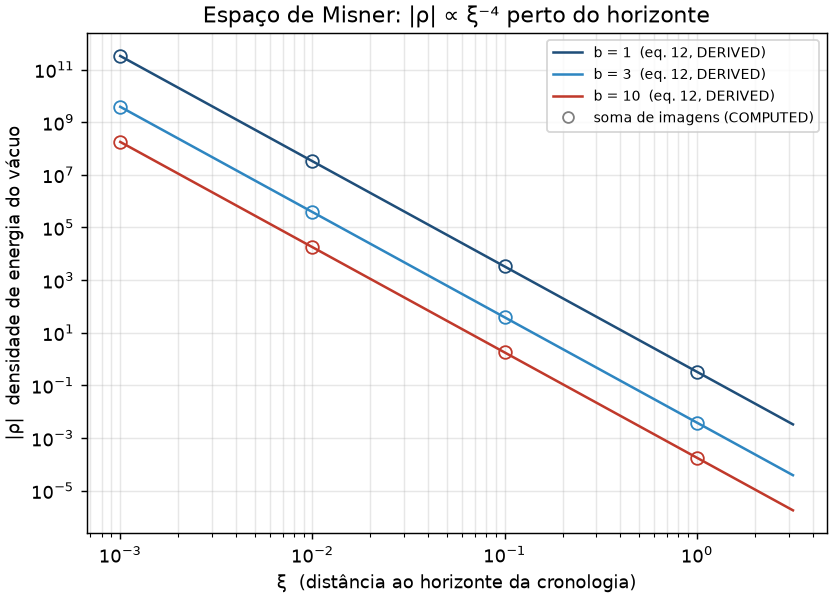
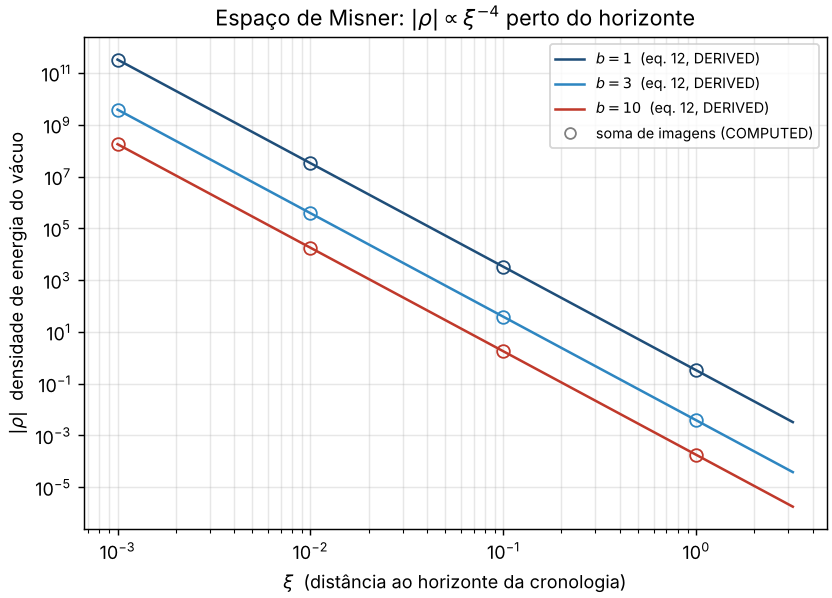
Paper v0.2.2: measured running times, left-aligned tables, mathtext figures, DOI footer
- Section 10: running times measured by paper/measure_timings.py (pytest,
  default run, build_tables.py, make -C paper), with CPU, RAM, OS, kernel and
  Python read from the system; raw data in generated/timings.json.
- Tables 1 and 2: left-aligned paragraph columns (array package); no more
  stretched text.
- Figures 1-4 (pt and _en): labels and titles in matplotlib mathtext. Plotted
  values unchanged: compared against origin/main, identical for all four;
  test_figures_lang.py passes.
- Page 1 footer: the double period after the DOI comes from the template's
  header.tex (line 69: the DOI branch ends in "." and the empty SWH branch adds
  another). Fixed in article.tex with a local \doi that swallows the first
  period; the template files are untouched.
- Table 3 caption: Hawking (1992) cited with \cite{hawking1992}
  (build_tables.py, CITE_KEYS).
- Table 1: float limits relaxed in article.tex; it now shares page 6 with text
  and the PDF has 12 pages instead of 13.
- build_tables.py: RELEASE_TAG = v0.2.2 (v0.2.1 is tagged on an earlier
  commit, and the generator refuses to run off the tag's commit).
- Makefile: generated/*.tex as dependencies, latexmk -g.
- The quotation of Klinkhammer's thesis stays marked as pending.

run: padrão (via paper/measure_timings.py: pytest 9 min 18 s, chronosim.run 7 min 26 s)

Claude-Session: https://claude.ai/code/session_01JtSYAWnLxFKdcSaz66cprf

diff --git a/chronosim/run.py b/chronosim/run.py
@@ -471,18 +471,18 @@ def figures_phase2(out: Path):
     dt = np.logspace(-40, 3, 300)
     hawking = float(estimates.hawking_cutoff_dt().value)
     text = {
-        "pt": {"l67": "eq. 67 impressa, série truncada (COMPUTED)", "l4a": "eq. 4a impressa, sem ½ (COMPUTED)",
-               "lhalf": "com ½, convenção do árbitro térmico (COMPUTED)", "x3": "Δ  (distância a H₁, unidades de D)",
-               "t3": "Kim & Thorne: divergência Δ⁻³; os dois operadores diferem por 2",
-               "kt": "corte de Kim & Thorne\nΔt ~ l_P", "hk": "corte de Hawking\nDΔt ~ l_P²",
-               "x4": "Δt / l_P  (tempo próprio até H₁)", "y4": "δg^VP  (ordem de grandeza)",
-               "t4": "D = 1 m: δg^VP ~ 10⁻³⁵ no corte de Kim & Thorne, ~ 1 no de Hawking"},
-        "en": {"l67": "eq. 67 as printed, truncated series (COMPUTED)", "l4a": "eq. 4a as printed, without ½ (COMPUTED)",
-               "lhalf": "with ½, thermal-arbiter convention (COMPUTED)", "x3": "Δ  (distance to H₁, units of D)",
-               "t3": "Kim & Thorne: Δ⁻³ divergence; the two operators differ by 2",
-               "kt": "Kim & Thorne cutoff\nΔt ~ l_P", "hk": "Hawking cutoff\nDΔt ~ l_P²",
-               "x4": "Δt / l_P  (proper time to H₁)", "y4": "δg^VP  (order of magnitude)",
-               "t4": "D = 1 m: δg^VP ~ 10⁻³⁵ at the Kim & Thorne cutoff, ~ 1 at Hawking's"},
+        "pt": {"l67": "eq. 67 impressa, série truncada (COMPUTED)", "l4a": r"eq. 4a impressa, sem $\frac{1}{2}$ (COMPUTED)",
+               "lhalf": r"com $\frac{1}{2}$, convenção do árbitro térmico (COMPUTED)", "x3": r"$\Delta$  (distância a $H_1$, unidades de $D$)",
+               "t3": r"Kim & Thorne: divergência $\Delta^{-3}$; os dois operadores diferem por 2",
+               "kt": "corte de Kim & Thorne\n" r"$\Delta t \sim l_P$", "hk": "corte de Hawking\n" r"$D\,\Delta t \sim l_P^2$",
+               "x4": r"$\Delta t / l_P$  (tempo próprio até $H_1$)", "y4": r"$\delta g^{VP}$  (ordem de grandeza)",
+               "t4": r"$D = 1$ m: $\delta g^{VP} \sim 10^{-35}$ no corte de Kim & Thorne, $\sim 1$ no de Hawking"},
+        "en": {"l67": "eq. 67 as printed, truncated series (COMPUTED)", "l4a": r"eq. 4a as printed, without $\frac{1}{2}$ (COMPUTED)",
+               "lhalf": r"with $\frac{1}{2}$, thermal-arbiter convention (COMPUTED)", "x3": r"$\Delta$  (distance to $H_1$, units of $D$)",
+               "t3": r"Kim & Thorne: $\Delta^{-3}$ divergence; the two operators differ by 2",
+               "kt": "Kim & Thorne cutoff\n" r"$\Delta t \sim l_P$", "hk": "Hawking cutoff\n" r"$D\,\Delta t \sim l_P^2$",
+               "x4": r"$\Delta t / l_P$  (proper time to $H_1$)", "y4": r"$\delta g^{VP}$  (order of magnitude)",
+               "t4": r"$D = 1$ m: $\delta g^{VP} \sim 10^{-35}$ at the Kim & Thorne cutoff, $\sim 1$ at Hawking's"},
     }
     for lang, suffix in LANGS.items():
         T = text[lang]
@@ -492,7 +492,7 @@ def figures_phase2(out: Path):
         ax.loglog(dx, y4a, "o", color=blue, ms=8, mfc="none", mew=2, label=T["l4a"])
         ax.loglog(dx, yhalf, "s", color=orange, ms=8, mfc="none", mew=2, label=T["lhalf"])
         ax.set_xlabel(T["x3"], color=ink)
-        ax.set_ylabel("|T^TT|", color=ink)
+        ax.set_ylabel(r"$|T^{TT}|$", color=ink)
         ax.set_title(T["t3"], color=ink, fontsize=10)
         ax.legend(fontsize=8, frameon=False)
         ax.grid(alpha=0.25, which="both")
@@ -502,7 +502,7 @@ def figures_phase2(out: Path):
 
         # 4. Metric perturbation, eq. 9c with N - 1 = 0 and D = 1 m, and the two cutoffs.
         fig, ax = plt.subplots(figsize=(6.4, 4.6), constrained_layout=True)
-        ax.loglog(dt, lpD / dt, color=blue, lw=2, label="δg^VP ~ (l_P/D)(l_P/Δt), eq. 9c")
+        ax.loglog(dt, lpD / dt, color=blue, lw=2, label=r"$\delta g^{VP} \sim (l_P/D)(l_P/\Delta t)$, eq. 9c")
         ax.axvline(1, color=ink, lw=1.2, ls="--")
         ax.text(0.3, 1e-15, T["kt"], color=ink, fontsize=8, ha="right")
         ax.axvline(hawking, color=ink, lw=1.2, ls=":")
@@ -593,21 +593,21 @@ def figures(out: Path):
     vals2 = [float(misner_stress(1, p)["rho"].value) for p in pts2]
     b_sc = float(self_consistent_b().value)
     text = {
-        "pt": {"images": "soma de imagens (COMPUTED)", "x1": "ξ  (distância ao horizonte da cronologia)",
-               "y1": "|ρ|  densidade de energia do vácuo", "t1": "Espaço de Misner: |ρ| ∝ ξ⁻⁴ perto do horizonte",
-               "images2": "soma de imagens, ξ = 1 (COMPUTED)", "x2": "b  (rapidez do boost que identifica os pontos)",
-               "t2": "A energia do vácuo se anula em b = 2π"},
-        "en": {"images": "image sum (COMPUTED)", "x1": "ξ  (distance to the chronology horizon)",
-               "y1": "|ρ|  vacuum energy density", "t1": "Misner space: |ρ| ∝ ξ⁻⁴ near the horizon",
-               "images2": "image sum, ξ = 1 (COMPUTED)", "x2": "b  (rapidity of the boost that identifies points)",
-               "t2": "The vacuum energy vanishes at b = 2π"},
+        "pt": {"images": "soma de imagens (COMPUTED)", "x1": r"$\xi$  (distância ao horizonte da cronologia)",
+               "y1": r"$|\rho|$  densidade de energia do vácuo", "t1": r"Espaço de Misner: $|\rho| \propto \xi^{-4}$ perto do horizonte",
+               "images2": r"soma de imagens, $\xi = 1$ (COMPUTED)", "x2": r"$b$  (rapidez do boost que identifica os pontos)",
+               "t2": r"A energia do vácuo se anula em $b = 2\pi$"},
+        "en": {"images": "image sum (COMPUTED)", "x1": r"$\xi$  (distance to the chronology horizon)",
+               "y1": r"$|\rho|$  vacuum energy density", "t1": r"Misner space: $|\rho| \propto \xi^{-4}$ near the horizon",
+               "images2": r"image sum, $\xi = 1$ (COMPUTED)", "x2": r"$b$  (rapidity of the boost that identifies points)",
+               "t2": r"The vacuum energy vanishes at $b = 2\pi$"},
     }
     for lang, suffix in LANGS.items():
         T = text[lang]
         # 1. Divergence at the chronology horizon
         fig, ax = plt.subplots(figsize=(6.4, 4.6), constrained_layout=True)
         for bs, color, curve, vals in series1:
-            ax.loglog(xs, curve, color=color, lw=1.4, label=f"b = {bs}  (eq. 12, DERIVED)")
+            ax.loglog(xs, curve, color=color, lw=1.4, label=f"$b = {bs}$  (eq. 12, DERIVED)")
             ax.loglog([float(p) for p in pts1], vals, "o", color=color, mfc="none", ms=7)
         ax.plot([], [], "o", color="gray", mfc="none", label=T["images"])
         ax.set_xlabel(T["x1"])
@@ -621,13 +621,13 @@ def figures(out: Path):
 
         # 2. The self-consistent value b = 2 pi
         fig, ax = plt.subplots(figsize=(6.4, 4.6), constrained_layout=True)
-        ax.plot(bb, curve2, color="#1f4e79", lw=1.4, label="ξ⁴ρ, eq. 12 (DERIVED)")
+        ax.plot(bb, curve2, color="#1f4e79", lw=1.4, label=r"$\xi^4\rho$, eq. 12 (DERIVED)")
         ax.plot([float(p) for p in pts2], vals2, "o", color="#c0392b", mfc="none", ms=7, label=T["images2"])
         ax.axhline(0, color="black", lw=0.8)
-        ax.axvline(b_sc, color="#27ae60", ls="--", lw=1, label="b = 2π (Li & Gott)")
+        ax.axvline(b_sc, color="#27ae60", ls="--", lw=1, label=r"$b = 2\pi$ (Li & Gott)")
         ax.set_yscale("symlog", linthresh=1e-6)
         ax.set_xlabel(T["x2"])
-        ax.set_ylabel("ξ⁴ ρ")
+        ax.set_ylabel(r"$\xi^4 \rho$")
         ax.set_title(T["t2"])
         ax.legend(fontsize=8)
         ax.grid(alpha=0.3)

diff --git a/paper/measure_timings.py b/paper/measure_timings.py
@@ -1,0 +1,118 @@
+"""Measure the running times quoted in the paper (section Reproducibility) on this machine.
+
+Runs, in order and from the repository root:
+    python -m pytest
+    python -m chronosim.run          (default run)
+    python paper/build_tables.py
+    make -C paper
+and writes the wall-clock time of each, with the hardware (CPU model, logical CPUs, RAM) and the
+operating system, to paper/generated/timings.json and paper/generated/timings.tex.
+
+Nothing here is typed by hand: every value comes from the clock or from the system (/proc, uname,
+/etc/os-release). If a command fails, the script stops and writes nothing.
+
+    python paper/measure_timings.py
+    make -C paper                     # again, so the PDF includes the new timings.tex
+
+    python paper/measure_timings.py --tex-only   # rewrite timings.tex from timings.json, no new run
+"""
+
+import json
+import platform
+import subprocess
+import sys
+import time
+from pathlib import Path
+
+ROOT = Path(__file__).resolve().parent.parent
+GEN = ROOT / "paper" / "generated"
+
+STEPS = [
+    ("pytest", "test suite", [sys.executable, "-m", "pytest", "-q"]),
+    ("run", "default run", [sys.executable, "-m", "chronosim.run"]),
+    ("tables", "numbers and tables", [sys.executable, "paper/build_tables.py"]),
+    ("pdf", "PDF", ["make", "-C", "paper"]),
+]
+
+
+def cpu_model():
+    for line in Path("/proc/cpuinfo").read_text().splitlines():
+        if line.startswith("model name"):
+            return line.split(":", 1)[1].strip()
+    return platform.processor() or "unknown"
+
+
+def ram_gib():
+    for line in Path("/proc/meminfo").read_text().splitlines():
+        if line.startswith("MemTotal:"):
+            return int(line.split()[1]) / 1024 ** 2  # kB -> GiB
+    raise SystemExit("MemTotal not found in /proc/meminfo")
+
+
+def os_name():
+    p = Path("/etc/os-release")
+    if p.exists():
+        for line in p.read_text().splitlines():
+            if line.startswith("PRETTY_NAME="):
+                return line.split("=", 1)[1].strip().strip('"')
+    return platform.system()
+
+
+def minutes_seconds(t):
+    if t < 1:
+        return "under 1\\,s"
+    m, s = divmod(round(t), 60)
+    return f"{m}\\,min\\,{s:02d}\\,s" if m else f"{s}\\,s"
+
+
+def write_tex(data):
+    esc = lambda s: s.replace("\\", "\\textbackslash{}").replace("&", "\\&").replace("_", "\\_").replace("%", "\\%").replace("#", "\\#")
+    lines = ["% Generated by paper/measure_timings.py from timings.json (wall-clock times on the machine described below)."]
+    for key, _, _ in STEPS:
+        lines.append(f"\\newcommand{{\\Time{key.capitalize()}}}{{{minutes_seconds(data['seconds'][key])}}}")
+    lines += [
+        f"\\newcommand{{\\TimeCPU}}{{{esc(data['cpu'])}}}",
+        f"\\newcommand{{\\TimeCores}}{{{data['logical_cpus']}}}",
+        f"\\newcommand{{\\TimeRAM}}{{{data['ram_gib']:.1f}}}",
+        f"\\newcommand{{\\TimeOS}}{{{esc(data['os'])}}}",
+        f"\\newcommand{{\\TimeKernel}}{{{esc(data['kernel'])}}}",
+        f"\\newcommand{{\\TimePython}}{{{data['python']}}}",
+        f"\\newcommand{{\\TimeDate}}{{{data['measured']}}}",
+    ]
+    (GEN / "timings.tex").write_text("\n".join(lines) + "\n", encoding="utf-8")
+
+
+def main():
+    import os
+
+    if "--tex-only" in sys.argv[1:]:
+        write_tex(json.loads((GEN / "timings.json").read_text(encoding="utf-8")))
+        print(f"wrote {GEN / 'timings.tex'} from timings.json")
+        return
+    times = {}
+    for key, _, cmd in STEPS:
+        start = time.perf_counter()
+        r = subprocess.run(cmd, cwd=ROOT, capture_output=True, text=True)
+        times[key] = time.perf_counter() - start
+        if r.returncode != 0:
+            sys.stdout.write(r.stdout[-3000:])
+            sys.stderr.write(r.stderr[-3000:])
+            raise SystemExit(f"{' '.join(cmd)} failed (exit {r.returncode}); no timings written")
+        print(f"{key}: {times[key]:.1f} s")
+    data = {
+        "seconds": {k: round(v, 1) for k, v in times.items()},
+        "cpu": cpu_model(),
+        "logical_cpus": os.cpu_count(),
+        "ram_gib": round(ram_gib(), 1),
+        "os": os_name(),
+        "kernel": platform.release(),
+        "python": platform.python_version(),
+        "measured": time.strftime("%Y-%m-%d", time.gmtime()),
+    }
+    (GEN / "timings.json").write_text(json.dumps(data, indent=2, ensure_ascii=False) + "\n", encoding="utf-8")
+    write_tex(data)
+    print(f"wrote {GEN / 'timings.json'} and timings.tex")
+
+
+if __name__ == "__main__":
+    main()

diff --git a/paper/content.tex b/paper/content.tex
@@ -3,6 +3,7 @@
 % docs; nothing numerical is typed by hand. Citations of the original give page and equation of
 % Kim & Thorne (1991) [kim1991]. The scan of the original is not in the repository.
 \input{generated/numbers.tex}
+\IfFileExists{generated/timings.tex}{\input{generated/timings.tex}}{\newcommand{\TimeDate}{(not yet measured)}\newcommand{\TimePytest}{?}\newcommand{\TimeRun}{?}\newcommand{\TimeTables}{?}\newcommand{\TimePdf}{?}\newcommand{\TimeCPU}{?}\newcommand{\TimeCores}{?}\newcommand{\TimeRAM}{?}\newcommand{\TimeOS}{?}\newcommand{\TimeKernel}{?}\newcommand{\TimePython}{?}}
 
 \section{Introduction}
 
@@ -129,9 +130,9 @@ Figure~\ref{fig:phase1} shows the horizon divergence.
 
 Table~\ref{tab:results} summarizes items F1--F7. The points below it give the context a table cannot.
 
-\begin{table}[!tbp]
+\begin{table}[!htbp]
 \centering\small
-\begin{tabular}{p{0.07\linewidth}p{0.36\linewidth}p{0.47\linewidth}}
+\begin{tabular}{>{\raggedright\arraybackslash}p{0.07\linewidth}>{\raggedright\arraybackslash}p{0.36\linewidth}>{\raggedright\arraybackslash}p{0.47\linewidth}}
 \toprule
 Item & Claim of the original (page, equation) & Independent computation and measured agreement (all \textsc{computed}) \\
 \midrule
@@ -335,6 +336,6 @@ python paper/build_tables.py  # numbers and tables
 make -C paper                 # PDF (paper/README.md)
 \end{verbatim}
 \begin{itemize}
-\item \textbf{Running time:} it is not quoted here; it will be measured on stated hardware at the release.
+\item \textbf{Running time} (wall clock, measured by \texttt{paper/measure\_timings.py} on \TimeDate): test suite \TimePytest, default run \TimeRun, \texttt{build\_tables.py} \TimeTables, PDF \TimePdf. Machine: \TimeCPU, \TimeCores{} logical CPUs, \TimeRAM\,GiB of RAM; \TimeOS, Linux kernel \TimeKernel, Python \TimePython. The default run uses several processes, so its time depends on the number of CPUs.
 \item \textbf{Not in the repository:} the scanned article, which is not redistributable. It must be obtained from the publisher. The transcriptions, with page and equation, are in \path{docs/equation_transcription.md}.
 \end{itemize}

diff --git a/paper/build_tables.py b/paper/build_tables.py
@@ -131,7 +131,13 @@ def transcribed_equations():
     return len(table)
 
 
-RELEASE_TAG = "v0.2.1"  # v0.2.0 predates the PDF build (Makefile, article.tex)
+RELEASE_TAG = "v0.2.2"  # the release the paper cites; v0.2.0 and v0.2.1 predate this version of the PDF
+# Sources printed outside Kim & Thorne, as (author, year) in outputs/kim_thorne_f7.csv -> key in bibliography.bib
+CITE_KEYS = {("Hawking", "1992"): "hawking1992"}
+# Left-aligned paragraph column of the given width (needs the array package)
+def L(width):
+    return f">{{\\raggedright\\arraybackslash}}p{{{width}\\linewidth}}"
+
 
 
 def git(*args):
@@ -329,7 +335,10 @@ def _main(argv=None):
             src = re.match(r"(.+?) \((\d{4})\), p\. (\d+)", r["printed_source"])
             if not src:
                 raise SystemExit(f"F7 printed source without a page: {r['printed_source']}")
-            not_in_kt.append(f"{names[r['quantity']]}, printed in {src.group(1)} ({src.group(2)}), p.~{src.group(3)}")
+            key = CITE_KEYS.get((src.group(1), src.group(2)))
+            if key is None:
+                raise SystemExit(f"F7 printed source without a bibliography key: {r['printed_source']}")
+            not_in_kt.append(f"{names[r['quantity']]}, printed in {src.group(1)} ({src.group(2)})~\\cite{{{key}}}, p.~{src.group(3)}")
         lines.append(f"{names[r['quantity']]} & {pg} & {printed} & ${tex(r['recomputed'])}${unit} \\\\")
     lines += ["\\bottomrule", "\\end{tabular}"]
     (GEN / "tab_f7.tex").write_text("\n".join(lines) + "\n", encoding="utf-8")
@@ -338,7 +347,7 @@ def _main(argv=None):
 
     # Table: arbiters
     lines = ["% Generated by paper/build_tables.py from outputs/kt_thermal_arbiter.csv, kt_unruh_arbiter.csv, kt_arbiter_eq4a_vs_eq11.csv.",
-             "\\begin{tabular}{p{0.17\\linewidth}p{0.20\\linewidth}ll}", "\\toprule",
+             "\\begin{tabular}{" + L(0.17) + L(0.20) + "ll}", "\\toprule",
              "Reference & Origin of the reference & eq.~4a as printed & with $\\tfrac12$ \\\\", "\\midrule"]
     t1 = [r for r in th if r["T"] == "1"]
     eq4a = [r for r in t1 if r["operator"] == "eq4a"][0]

diff --git a/paper/article.tex b/paper/article.tex
@@ -1,12 +1,23 @@
 % Main file of the article. Same as article.tex of the ReScience C template
-% (commit pinned in Makefile), plus booktabs (tables) and emergencystretch
-% (avoids lines running into the margin).
+% (commit pinned in Makefile), plus booktabs and array (tables), emergencystretch
+% (avoids lines running into the margin), and a local \doi around header.tex:
+% the template's header.tex (line 69) ends the code DOI with "." and then adds
+% another "." when the SWH field is empty, so the DOI ended in "..". The local
+% \doi swallows the period that follows it; the SWH branch supplies the final one.
 \documentclass{rescience}
 \usepackage{booktabs}
+\usepackage{array}
 \setlength{\emergencystretch}{2em}
+% Let a tall float (Table 1) share a page with text instead of taking a page alone
+\renewcommand{\topfraction}{0.9}
+\renewcommand{\bottomfraction}{0.9}
+\renewcommand{\textfraction}{0.07}
+\renewcommand{\floatpagefraction}{0.8}
 
 \begin{document}
-\input{header.tex}
+{\let\chronosimdoi\doi
+ \renewcommand{\doi}[2]{\chronosimdoi{#1}}%
+ \input{header.tex}}
 \input{content.tex}
 
 \hypersetup{linkcolor=black,urlcolor=darkgray}

diff --git a/paper/README.md b/paper/README.md
@@ -10,6 +10,7 @@ Rascunho de "[Re] Do vacuum fluctuations prevent the creation of closed timelike
 | `content.tex` | Corpo do artigo, que o `article.tex` do template inclui |
 | `bibliography.bib` | Referências, conforme `chronosim/sources.py` |
 | `build_tables.py` | Gera `generated/numbers.tex` e `generated/tab_*.tex` a partir de `outputs/` |
+| `measure_timings.py` | Mede os tempos da seção Reproducibility (pytest, execução padrão, `build_tables.py`, `make -C paper`) e grava `generated/timings.json` e `generated/timings.tex`, com CPU, RAM e sistema |
 
 **Nenhum número é digitado à mão:** todos vêm de `generated/numbers.tex`. Para regenerá-los:
 
